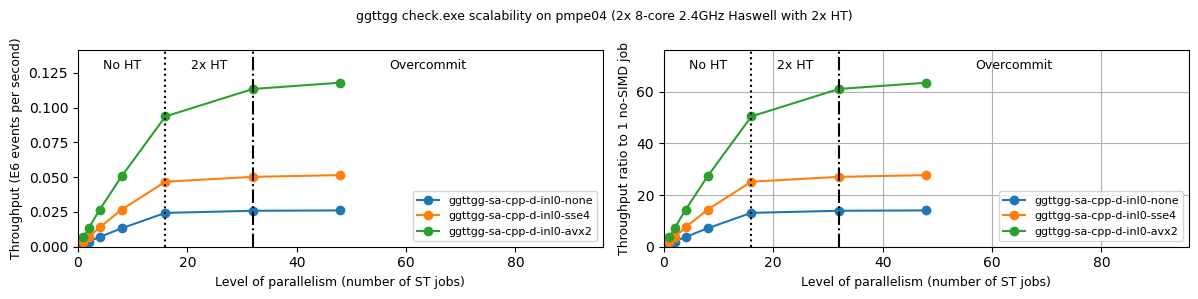
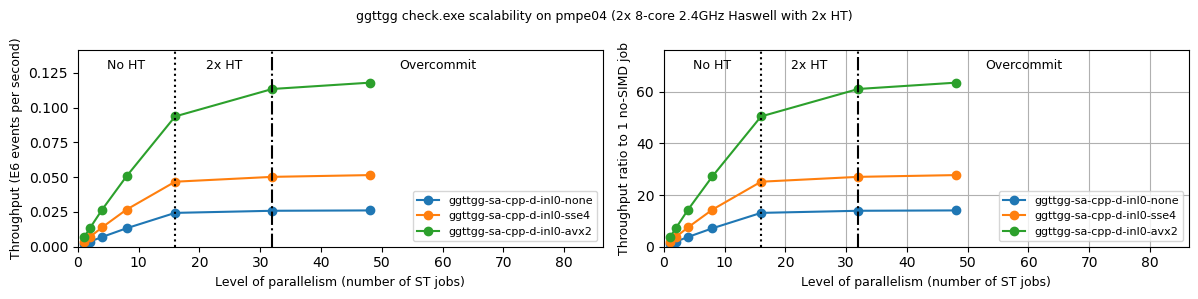
[bmk] improve plots

diff --git a/tools/benchmarking/BMK-plots.py b/tools/benchmarking/BMK-plots.py
@@ -149,7 +149,7 @@ def axesST( ax, runset_scores, keymatch=None, abstput=True, xht=None, debug=Fals
         # Add curve of y vs x
         p = ax.plot( xvals, yvals, marker='o', label=score_key )
     # Decorate axes
-    xmax *= 2.0
+    xmax *= 1.8
     ymax *= 1.2
     loc = 'lower right'
     ax.legend( loc=loc, fontsize=plots_legendsize )
@@ -231,9 +231,9 @@ if __name__ == '__main__':
 
     #plotST( 'BMK-pmpe04/d-inl0-best.png', loadRunSet( 'BMK-pmpe04'), keymatch='d-inl0-best', xht=16, ftitle='check.exe scalability on pmpe04 (2x 8-core 2.4GHz Haswell with 2x HT)' )
 
-    #plotOneProcess2( 'BMK-pmpe04', 'ggttgg', 'sa-cpp-d-inl0' )
+    plotOneProcess2( 'BMK-pmpe04', 'ggttgg', 'sa-cpp-d-inl0' )
     plotOneProcess2( 'BMK-pmpe04', 'ggttgg', 'sa-cpp-f-inl0' )
 
-    #plotOneProcess2( 'BMK-pmpe04', None, 'sa-cpp-d-inl0' )
-    #plotOneProcess2( 'BMK-pmpe04', None, 'sa-cpp-f-inl0' )
+    plotOneProcess2( 'BMK-pmpe04', None, 'sa-cpp-d-inl0' )
+    plotOneProcess2( 'BMK-pmpe04', None, 'sa-cpp-f-inl0' )
 
